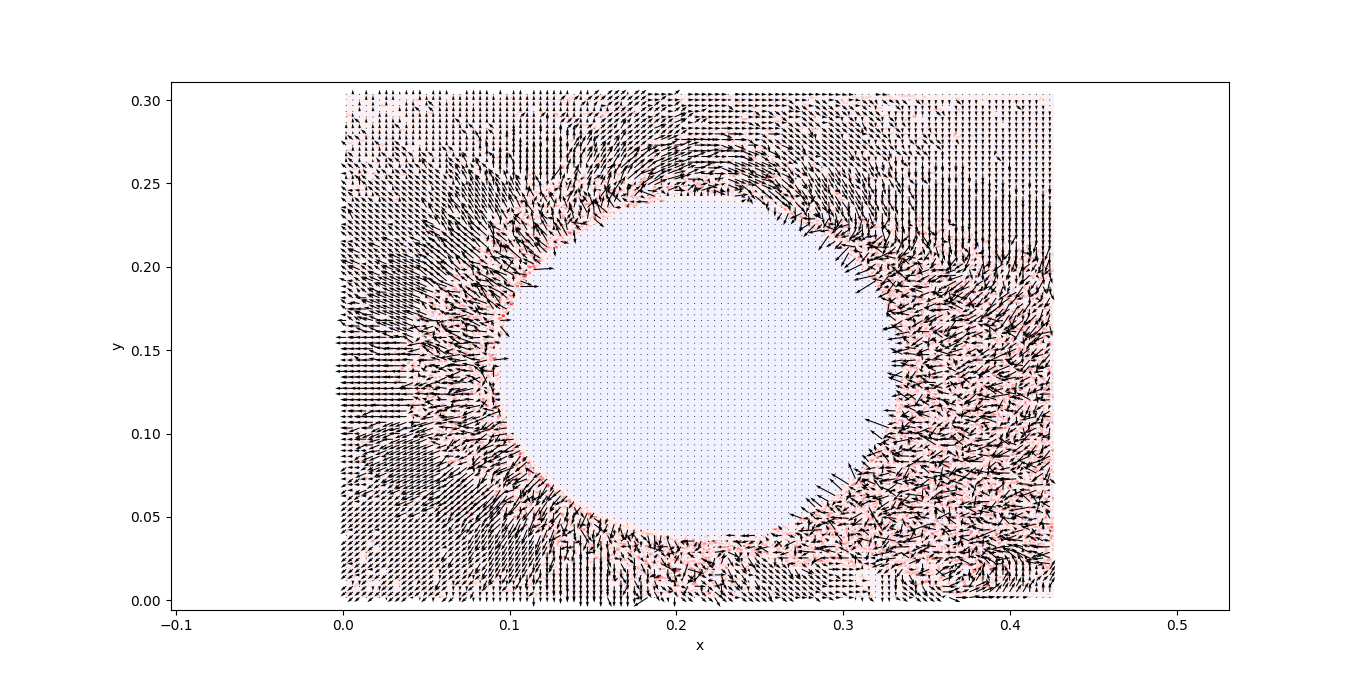
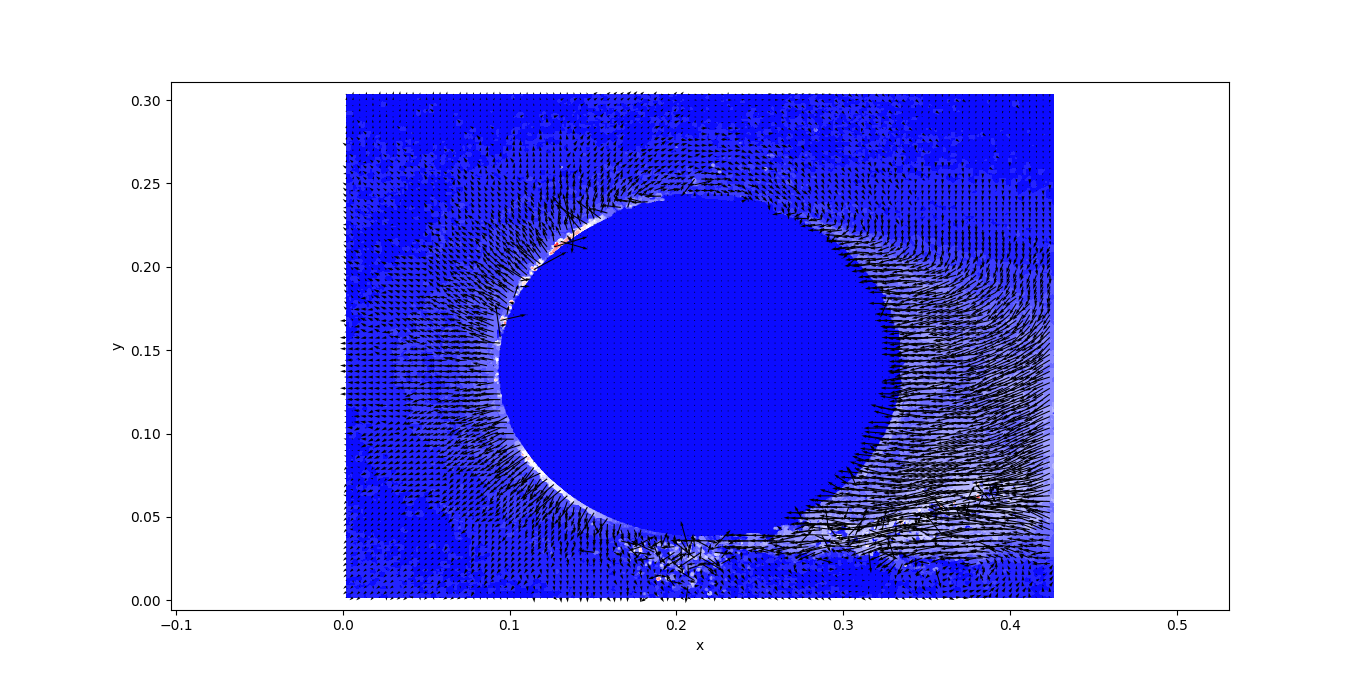
Lots of improvements. '

diff --git a/analysis.py b/analysis.py
@@ -28,38 +28,27 @@ def get_correlation_peak(array1, array2):
     corr = sig.correlate(array1-avg1, array2-avg2, method='fft', mode='same')
 
     # Find maximum (we're not going to check the edges here)
-    max_corr = 0.0
-    i_max = -1
-    for  i in range(1, corr.shape[0]-1):
-        for j in range(1, corr.shape[1]-1):
-            if corr[i,j] > max_corr:
-                i_max = i
-                j_max = j
-                max_corr = corr[i,j]
+    max_loc = np.argmax(corr)
+    i_max = max_loc//(corr.shape[0])
+    j_max = max_loc%(corr.shape[1])
 
-    # Check if we've found a maximum
-    if i_max == -1:
+    # Check if the maximum as at the edges, in which case we reject the result
+    if i_max == 0 or j_max == 0 or i_max == corr.shape[0]-1 or j_max == corr.shape[1]-1:
         return [0.0, 0.0]
+
+    # Otherwise, get correlation peak
     else:
 
         # Get array around peak
         peak_array = corr[i_max-1:i_max+2,j_max-1:j_max+2]
 
         # Move the correlation plane up so the Gaussian fit works
-        min_val = np.min(peak_array.flatten()).item()
+        min_val = np.min(peak_array).item()
         if min_val <= 0.0:
             peak_array -= min_val - 0.1
 
         # Get subpixel peak location
         peak = center_of_fit_gaussian(peak_array)
-
-        # Plot
-        #if abs(j_max - array1.shape[0]//2) > 3 and abs(i_max - array1.shape[1]//2) > 3:
-        #    plt.figure()
-        #    plt.imshow(corr)
-        #    plt.plot(j_max, i_max, 'x', color='orange')
-        #    plt.plot(j_max+peak[1], i_max+peak[0], 'rx')
-        #    plt.show()
 
         # Reject erroneous peak fits (Shouldn't be further from the original peak than 1 pixel in any direction)
         if peak[0]**2 + peak[1]**2 > 2.0:

diff --git a/base_piv.py b/base_piv.py
@@ -198,12 +198,12 @@ class BasePIVAnalysis:
                     i_devs = np.sort(np.abs(i_shifts - i_med))
                     j_devs = np.sort(np.abs(j_shifts - j_med))
 
-                    # Get median and standard deviation ignoring the two points furthest away
-                    i_std = np.median(i_devs).item()
-                    j_std = np.median(j_devs).item()
+                    # Get median deviation
+                    i_med_dev = np.median(i_devs).item()
+                    j_med_dev = np.median(j_devs).item()
 
                     # Check
-                    if abs(self.shifts[k,i,j,0]-i_med)/(i_std+e0) > e_thresh or abs(self.shifts[k,i,j,1]-j_med)/(j_std+e0) > e_thresh:
+                    if abs(self.shifts[k,i,j,0]-i_med)/(i_med_dev+e0) > e_thresh or abs(self.shifts[k,i,j,1]-j_med)/(j_med_dev+e0) > e_thresh:
                         filtered_shifts[i,j,:] = [i_med, j_med]
                     else:
                         filtered_shifts[i,j,:] = self.shifts[k,i,j,:]

diff --git a/main.py b/main.py
@@ -19,7 +19,7 @@ if __name__=="__main__":
     #my_piv.write_to_csv("results/synthetic_jet/velocity")
 
     my_piv = BaseballPIVAnalysis("data/baseball_data/baseballs2.tif", dt=10.0e-6, pixel_threshold=10)
-    my_piv.process(2.0, 0.1, 24, vector_spacing=3, N_passes=3)#, max_shift_in_pixels=10)
+    my_piv.process(1.0, 0.1, 24, vector_spacing=3, N_passes=5)#, max_shift_in_pixels=10)
     my_piv.create_velocity_histogram()
     my_piv.plot_slice_in_y(0, -1)
     my_piv.plot_quiver(0, background='velocity')
@@ -29,6 +29,6 @@ if __name__=="__main__":
     ## Test
     #test1 = np.zeros((6,6))
     #test2 = np.zeros((6,6))
-    #test1[1,1] = 1.0
-    #test2[2,2] = 1.0
+    #test1[2,2] = 1.0
+    #test2[4,4] = 1.0
     #print(get_correlation_peak(test1, test2))
